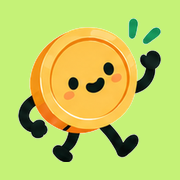
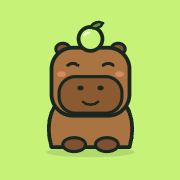
Nueva mascota: el carpincho de Pesito
- Carpincho en 6 poses (logo, saludo, celular, corazón, buscando, cumple) en SVG
- Logo con letra redondeada (Baloo 2) y nueva frase: "Todas tus promos en un solo lugar."
- Íconos de la app (navegador, iPhone, Android) regenerados
- Se quita la moneda anterior

Claude-Session: https://claude.ai/code/session_01Sh5hDiCQ6DP5BWh1P2y9px

diff --git a/src/components/brand.tsx b/src/components/brand.tsx
@@ -2,34 +2,38 @@ import Image from "next/image";
 import { hash53 } from "@/lib/domain/fingerprint";
 import type { Merchant, PaymentMethod } from "@/lib/domain/types";
 
-export function Logo({ size = "md", withSlogan = true }: { size?: "sm" | "md" | "lg"; withSlogan?: boolean }) {
-  const h = { sm: 34, md: 44, lg: 96 }[size];
-  if (!withSlogan) {
-    return (
-      <span className="inline-flex items-center gap-1.5">
-        <Image src="/brand/mascota.png" alt="" width={h} height={h} className="h-auto" style={{ width: h }} loading="eager" />
-        <span className="text-[26px] leading-none font-black tracking-tight text-bosque">Pesito</span>
+/** Logo: el carpincho + "Pesito" en letra redondeada. Con frase debajo si withSlogan. */
+export function Logo({ size = "md", withSlogan = true, inverted = false }: { size?: "sm" | "md" | "lg"; withSlogan?: boolean; inverted?: boolean }) {
+  const h = { sm: 40, md: 56, lg: 96 }[size];
+  return (
+    <span className="inline-flex items-center gap-1.5" aria-label="Pesito" role="img">
+      <Image src="/brand/carpincho-logo.svg" alt="" width={h} height={h} style={{ width: h, height: h }} loading="eager" unoptimized />
+      <span className="flex flex-col">
+        <span className={`font-marca leading-[0.85] font-extrabold tracking-tight ${inverted ? "text-lima" : "text-bosque"}`} style={{ fontSize: h * 0.72 }}>
+          Pesito
+        </span>
+        {withSlogan && size !== "sm" && <span className="mt-1 text-xs font-medium text-tinta-2">{SLOGAN}</span>}
       </span>
-    );
-  }
-  return <Image src="/brand/pesito-logo.png" alt="Pesito · Cada pesito cuenta." width={Math.round(h * 2.73)} height={h} className="h-auto" style={{ width: Math.round(h * 2.73) }} loading="eager" />;
+    </span>
+  );
 }
 
+export const SLOGAN = "Todas tus promos en un solo lugar.";
+
 const POSES = {
-  saludo: { src: "/brand/mascota-saludo.png", w: 305, h: 276 },
-  celular: { src: "/brand/mascota-celular.png", w: 244, h: 244 },
-  corazon: { src: "/brand/mascota-corazon.png", w: 264, h: 259 },
-  camina: { src: "/brand/mascota-camina.png", w: 284, h: 265 },
-  changuito: { src: "/brand/mascota-changuito.png", w: 377, h: 239 },
-  logo: { src: "/brand/mascota.png", w: 554, h: 558 },
+  logo: "/brand/carpincho-logo.svg",
+  saludo: "/brand/carpincho-saludo.svg",
+  celular: "/brand/carpincho-celular.svg",
+  corazon: "/brand/carpincho-corazon.svg",
+  buscando: "/brand/carpincho-buscando.svg",
+  cumple: "/brand/carpincho-cumple.svg",
 } as const;
 
 export type Pose = keyof typeof POSES;
 
-/** La moneda de Pesito. Decorativa: no se lee en voz alta. */
+/** El carpincho de Pesito. Decorativo: no se lee en voz alta. */
 export function Mascot({ pose = "saludo", width = 96, className = "", eager = false }: { pose?: Pose; width?: number; className?: string; eager?: boolean }) {
-  const p = POSES[pose];
-  return <Image src={p.src} alt="" width={p.w} height={p.h} loading={eager ? "eager" : "lazy"} className={`h-auto select-none ${className}`} style={{ width }} />;
+  return <Image src={POSES[pose]} alt="" width={240} height={240} loading={eager ? "eager" : "lazy"} unoptimized className={`h-auto select-none ${className}`} style={{ width }} />;
 }
 
 // Tonos para avatares sin logo: derivados de la paleta, legibles con texto oscuro o claro.

diff --git a/src/app/(app)/comparador/page.tsx b/src/app/(app)/comparador/page.tsx
@@ -31,7 +31,7 @@ export default async function ComparePage({ searchParams }: { searchParams: Prom
     <div>
       <PageHeader title="Comparar medios de pago" back="/" subtitle="Mismo comercio, distintas opciones. Elegí la que más te conviene." />
       {!merchant ? (
-        <EmptyState title="Todavía no hay promos para comparar" text="Cuando haya promos publicadas vas a poder compararlas acá." pose="camina" />
+        <EmptyState title="Todavía no hay promos para comparar" text="Cuando haya promos publicadas vas a poder compararlas acá." pose="buscando" />
       ) : (
         <>
           <form className="tarjeta grid gap-3 p-4" action="/comparador">

diff --git a/src/app/(app)/perfil/page.tsx b/src/app/(app)/perfil/page.tsx
@@ -48,7 +48,7 @@ export default async function ProfilePage() {
         <span className="grid size-14 place-items-center rounded-full bg-lima text-xl font-black">{user.name.slice(0, 1).toUpperCase()}</span>
         <div className="flex-1">
           <h1 className="text-[22px] font-black tracking-tight">Hola, {user.name}</h1>
-          <p className="text-sm text-tinta-2">Cada pesito cuenta.</p>
+          <p className="text-sm text-tinta-2">Todas tus promos en un solo lugar.</p>
         </div>
         {user.role === "admin" && (
           <Link href="/admin" className="btn-secundario btn-chico">

diff --git a/src/app/admin/layout.tsx b/src/app/admin/layout.tsx
@@ -28,7 +28,7 @@ export default async function AdminLayout({ children }: { children: React.ReactN
       <header className="border-b border-linea bg-superficie">
         <div className="mx-auto flex max-w-6xl items-center gap-3 px-4 pt-[calc(env(safe-area-inset-top)+10px)] pb-2">
           <Link href="/admin" aria-label="Panel">
-            <Logo size="sm" withSlogan={false} />
+            <Logo size="sm" />
           </Link>
           <span className="chip bg-bosque text-lima">Panel</span>
           {repo.mode === "demo" && <span className="chip bg-alerta-suave text-alerta">Demo</span>}

diff --git a/src/app/not-found.tsx b/src/app/not-found.tsx
@@ -4,7 +4,7 @@ import { Mascot } from "@/components/brand";
 export default function NotFound() {
   return (
     <main className="mx-auto flex min-h-dvh max-w-sm flex-col items-center justify-center px-6 text-center">
-      <Mascot pose="camina" width={140} />
+      <Mascot pose="buscando" width={140} />
       <h1 className="mt-4 text-2xl font-black tracking-tight">No encontramos esta página</h1>
       <p className="mt-2 text-tinta-2">Puede que la promo haya terminado o que el enlace esté mal.</p>
       <Link href="/" className="btn-primario mt-6">

diff --git a/src/app/layout.tsx b/src/app/layout.tsx
@@ -2,7 +2,7 @@ import type { Metadata, Viewport } from "next";
 import "./globals.css";
 
 export const metadata: Metadata = {
-  title: { default: "Pesito · Cada pesito cuenta.", template: "%s · Pesito" },
+  title: { default: "Pesito · Todas tus promos en un solo lugar.", template: "%s · Pesito" },
   description: "Promos bancarias, cupones de primera compra y beneficios de cumpleaños de Argentina, en un solo lugar.",
   applicationName: "Pesito",
   appleWebApp: { capable: true, title: "Pesito", statusBarStyle: "default" },

diff --git a/src/app/(app)/cumple/page.tsx b/src/app/(app)/cumple/page.tsx
@@ -62,7 +62,7 @@ export default async function BirthdayPage({ searchParams }: { searchParams: SP 
         ) : (
           <p className="mt-1 text-sm font-medium text-bosque/80">Regalos, descuentos y cupones de comercios argentinos para tu cumpleaños.</p>
         )}
-        <Mascot pose="corazon" width={112} eager className="absolute right-2 bottom-0" />
+        <Mascot pose="cumple" width={118} eager className="absolute right-2 bottom-0" />
       </section>
 
       <section className="tarjeta mt-4 p-4">

diff --git a/src/app/globals.css b/src/app/globals.css
@@ -1,5 +1,6 @@
 @import "tailwindcss";
 @import "@fontsource-variable/inter";
+@import "@fontsource/baloo-2/800.css";
 
 /* Identidad Pesito: paleta oficial + tonos derivados para texto secundario y bordes. */
 @theme {
@@ -19,6 +20,7 @@
   --color-peligro: #b42318;
   --color-peligro-suave: #fde8e6;
 
+  --font-marca: "Baloo 2", "Inter Variable", ui-rounded, system-ui, sans-serif;
   --font-sans: "Inter Variable", ui-sans-serif, system-ui, -apple-system, "Segoe UI", sans-serif;
 
   --radius-tarjeta: 22px;

diff --git a/src/app/(app)/promos/page.tsx b/src/app/(app)/promos/page.tsx
@@ -93,7 +93,7 @@ export default async function PromosPage({ searchParams }: { searchParams: SP })
         <EmptyState
           title="No encontramos promos"
           text="Probá con otra búsqueda o sacá algún filtro. Si conocés una promo que falta, mandala."
-          pose="camina"
+          pose="buscando"
           action={
             <Link href="/sugerir" className="btn-primario">
               <Icon name="plus" size={18} /> Sugerí una promo

diff --git a/src/app/manifest.ts b/src/app/manifest.ts
@@ -2,7 +2,7 @@ import type { MetadataRoute } from "next";
 
 export default function manifest(): MetadataRoute.Manifest {
   return {
-    name: "Pesito · Cada pesito cuenta.",
+    name: "Pesito · Todas tus promos en un solo lugar.",
     short_name: "Pesito",
     description: "Promos bancarias, cupones y beneficios de cumpleaños de Argentina en un solo lugar.",
     start_url: "/",
